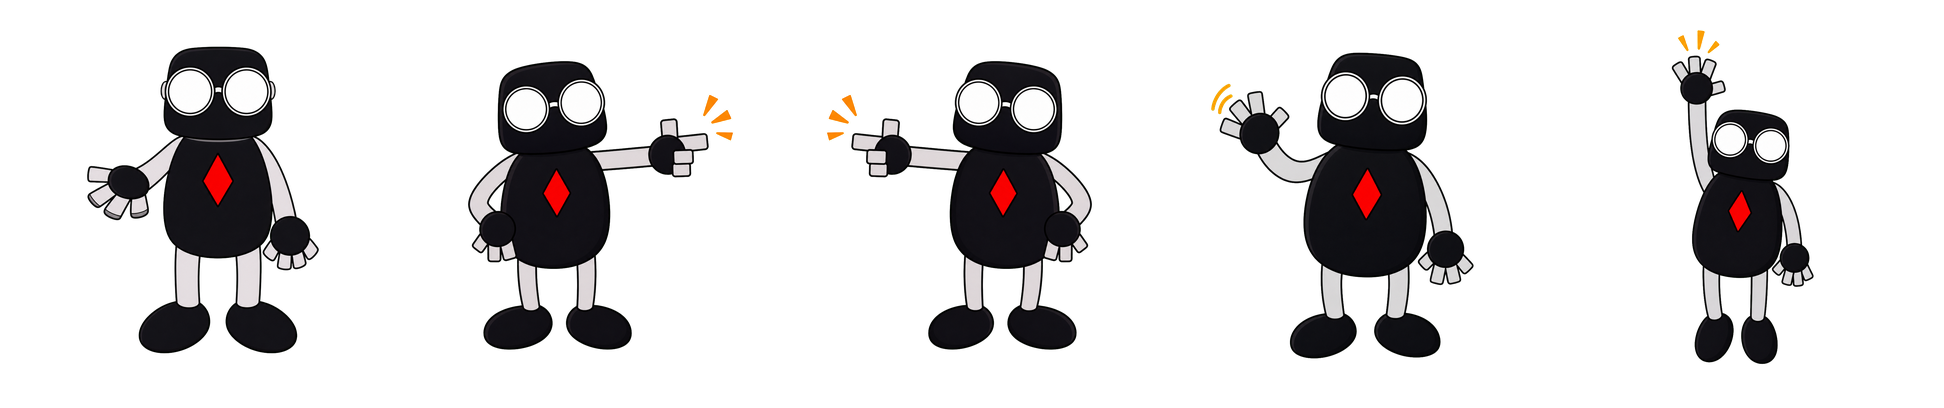
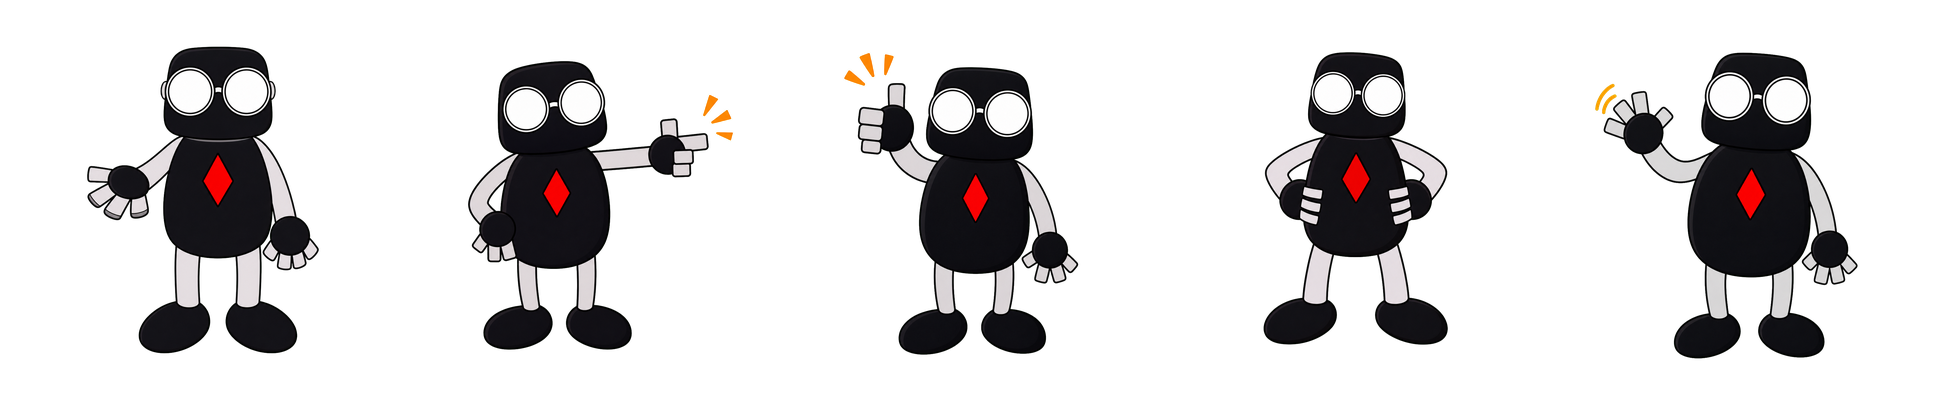
fix: allow thumbs-up and palm-closed illustration hands
Open-only reads as one pose. Add thumbs-up (palm closed, thumb tab up,
finger tabs tucked) and closed-at-rest. Still ban grips. When choosing
a look, run the same prompt on Grok and a GPT image model.

Changed region(s): [[0.4012, 0.1176, 0.5864, 0.8824], [0.6173, 0.1176, 0.7716, 0.8824], [0.8025, 0.0882, 0.9568, 0.8824]]

diff --git a/docs/skills/tkrobot-illustrations/references/tkrobot-sketch-mode.md b/docs/skills/tkrobot-illustrations/references/tkrobot-sketch-mode.md
@@ -17,9 +17,9 @@ order:
 1. `assets/character-lock-canonical.png` — anatomy and colours from the sticker
    masters (wave, hands-on-hips, OK, face).
 2. `assets/character-lock-sketch.png` — the same character in thin-line form.
-3. `assets/hand-lock-canonical.png` — open-palm and pointing poses only.
-   Also `docs/references/hand-size-anchor.png`.
-4. `assets/hand-lock-sketch.png` — the same two poses in thin-line form.
+3. `assets/hand-lock-canonical.png` — open, point, thumbs-up (palm-closed),
+   and closed-at-rest. Also `docs/references/hand-size-anchor.png`.
+4. `assets/hand-lock-sketch.png` — the same poses in thin-line form.
 
 Hands are the most common miss. If a call can only take a few references,
 keep the two **hand** sheets. Do **not** pass `assets/examples/*.png` as
@@ -45,16 +45,21 @@ These do not relax. If any one is missing, regenerate.
 - Oversized **black oval feet**.
 - No mouth, no eyebrows, no blush, no nose. Blank, deadpan.
 
-## Hands (open or point — never grip)
+## Hands (open, point, thumbs-up, closed — never grip)
 
-Grips are the failure mode. Visible hands may only do **two** poses:
+Grips are the failure mode. Visible hands may only do these poses:
 
-- **Open** — palm toward us, hanging at the side, waving, or flat against a
-  surface (pushing). All four tabs readable.
+- **Open** — palm toward us, waving, or flat against a surface. Four tabs
+  fanned.
 - **Point** — one grey finger tab out, grey thumb, two tabs along the palm.
+- **Thumbs-up** — **palm closed**. The black blob is a closed palm. Three
+  grey finger tabs tuck as short stubs along the blob's edge. One grey thumb
+  tab sticks straight up. Not an open fan with a thumb.
+- **Closed** — palm closed at rest: black blob hanging at the side or on a
+  hip, all grey tabs tucked as stubs. Not fanned. Not wrapped around a tool.
 
-Do not invent a third pose. No holding, wrapping, cranking, stamping,
-carrying, pinching, thumbs-up, OK, fists, or gear-like sunbursts of tabs.
+Do not invent a grip. No holding, wrapping, cranking, stamping, carrying,
+pinching, OK, or gear-like sunbursts of tabs.
 
 Locked construction, from `docs/references/hand-size-anchor.png`:
 
@@ -65,16 +70,17 @@ Locked construction, from `docs/references/hand-size-anchor.png`:
   **edge** of the black blob.
 - Count the grey tabs: **three fingers plus one thumb**. Four tabs total.
   Never four fingers plus a thumb (five tabs). Never five digits.
-- Tabs stay **large** — the locked v1 blocky scale. Not tiny nubs, not
-  sausages.
+- On **open** hands the tabs stay large (locked v1 scale). On **closed** and
+  **thumbs-up** the three finger tabs shorten into stubs against the blob;
+  the thumb tab stays a clear rectangle when it is up.
 - The grey arm tube meets the black palm. No extra ring.
 
-A hand that is fully hidden may vanish. A hand that is visible enough to
-count must be open or pointing, in this construction.
+A hand that is fully hidden may vanish. A visible hand must be one of the
+four poses above.
 
 The **body** does the work: stand inside the machine, lean on the gate, sit
-on the crate, push with an open palm, point at the flow. Objects may rest
-*on* an open palm. They must not be gripped.
+on the crate, push with an open palm, point at the flow, signal thumbs-up.
+Objects may rest *on* an open palm. They must not be gripped.
 
 Never: white Mickey gloves, all-black hands, stick-figure hooks, sausage
 fingers, fingernails, knuckle lines, a mitten with white bars, or any wrap
@@ -93,7 +99,8 @@ around a handle.
 T Krobot is a serious, deadpan worker doing an absurd-but-coherent job. It
 must perform the image's core action with its **body**, not a grip: stuck
 inside the machine, leaning on the gate, standing on the crate, pointing at
-the leak, pushing the box with an open palm.
+the leak, pushing with an open palm, signalling thumbs-up when the job is
+done.
 
 Multiple T Krobots are allowed (2–3 max) when the structure needs stations —
 each doing one job. Never a crowd, never a mascot lineup.

diff --git a/docs/skills/tkrobot-illustrations/references/prompt-template.md b/docs/skills/tkrobot-illustrations/references/prompt-template.md
@@ -42,10 +42,16 @@ MUST match the lock sheets:
   PALM BLOB with exactly FOUR light-grey rectangular tabs growing from its
   edge — three fingers in a row plus one thumb set apart. Tabs are LARGE flat
   rectangles with hard sides.
-  Allowed poses only: OPEN (palm toward us, hanging, waving, or flat against
-  a surface) or POINT (one tab out). Never grip, hold, wrap, crank, stamp,
-  carry, pinch, thumbs-up, OK, or fist. If a hand is curled around an object,
-  redraw the pose — have T Krobot push, lean, stand in, or point instead.
+  Allowed poses only:
+  OPEN — four tabs fanned, palm toward us, waving, or flat on a surface.
+  POINT — one grey finger tab out, grey thumb, two tabs along the palm.
+  THUMBS-UP — palm CLOSED: black blob as a closed palm, three grey finger
+  tabs tucked as short stubs on the blob, one grey thumb tab straight up.
+  CLOSED — palm closed at rest: black blob at the side or on a hip, all
+  grey tabs tucked as stubs, not fanned.
+  Never grip, hold, wrap, crank, stamp, carry, pinch, or OK. If a hand is
+  curled around an object, redraw — push, lean, stand in, point, or
+  thumbs-up instead.
 - Feet: oversized solid black ovals.
 - No mouth, no eyebrows, no blush. Deadpan.
 
@@ -68,7 +74,7 @@ Core idea:
 
 Composition:
 {where T Krobot is, the body action — not a grip — the main object, how
-information flows. Hands are open or pointing only.}
+information flows. Hands: open, point, thumbs-up (palm-closed), or closed.}
 
 Suggested elements:
 {element1} / {element2} / {element3}
@@ -88,7 +94,8 @@ at least 35% blank white. At most 5-8 short handwritten labels. No title in
 any corner. Do not write the structure type on the image. Not a formal
 diagram, slide, or dense explainer. Clear but not instructional, interesting
 but not childish, strange but clean. No extra type on props (no "STAMPED",
-no "WEEKLY BRIEFING" headings). Hands open or pointing only — no grips.
+no "WEEKLY BRIEFING" headings). Hands: open, point, thumbs-up (palm-closed),
+or closed at rest — no grips.
 ```
 
 ## Edit prompts
@@ -109,8 +116,9 @@ to the conceptual action — doing the strange work that explains the idea, not
 standing beside the diagram. Keep it clean, sparse, hand-drawn, not cute.
 Keep T Krobot on-model: grey tube limbs, trapezoid black head and body, empty
 round white glasses, red chest diamond, black palm blobs with four large
-grey rectangular tabs. Hands open or pointing only — no gripping. Not an
-all-black stick figure. Not cartoon gloves.
+grey rectangular tabs. Hands: open, point, thumbs-up (palm-closed), or
+closed at rest — no gripping. Not an all-black stick figure. Not cartoon
+gloves.
 ```
 
 Fix an off-model T Krobot (keep the scene):
@@ -131,8 +139,10 @@ Edit the provided image. Fix only T Krobot's hands to match the attached
 hand-lock sheets. Each visible hand: a round solid-black palm blob, with
 exactly three light-grey rectangular finger tabs plus one grey thumb tab
 growing from the blob's edge. Large flat tabs, hard sides. Each hand is
-OPEN or POINTING — if it is wrapped around a handle, uncurl it into an
-open palm or a point and move the object so it is not being held. Not
+OPEN, POINTING, THUMBS-UP (palm-closed), or CLOSED at rest. If it is
+wrapped around a handle, uncurl it and move the object so it is not
+being held. Thumbs-up must keep the palm closed (tucked stubs + thumb
+up), not an open fan. Not
 white gloves, not five digits, not sausages, not all-black fists, not
 striped mittens. Leave the head, body, scene, and labels untouched.
 ```

diff --git a/docs/skills/tkrobot-illustrations/SKILL.md b/docs/skills/tkrobot-illustrations/SKILL.md
@@ -14,9 +14,10 @@ product-sketch-feeling drawing where **T Krobot does the strange work that
 explains the idea**.
 
 T Krobot must participate in the core action — standing in the machine,
-leaning on the gate, pointing at the break, pushing with an open palm.
-Never standing beside the diagram as decoration. Hands stay **open or
-pointing**; do not grip or hold objects (those poses collapse).
+leaning on the gate, pointing at the break, pushing with an open palm,
+signalling thumbs-up. Never standing beside the diagram as decoration.
+Hands may be **open**, **pointing**, **thumbs-up (palm-closed)**, or
+**closed at rest**. Do not grip or hold objects (those poses collapse).
 
 This is distinct from the sticker pack (transparent chat stickers) and from
 banner composition (deterministic hero scenes). This skill produces editorial
@@ -26,9 +27,9 @@ body images for articles, tutorials, proposals, and course-page prose.
 
 Always read `references/tkrobot-sketch-mode.md` and look at the lock sheets
 before the first `image_gen` call. T Krobot is the sticker mascot with **light
-grey tube limbs** and **black palm + grey tab hands** that only **open or
-point**. Not an all-black Xiaohei stick figure, not cartoon gloves, not a
-grip.
+grey tube limbs** and **black palm + grey tab hands** that **open, point,
+thumbs-up (palm-closed), or close at rest**. Not an all-black Xiaohei stick
+figure, not cartoon gloves, not a grip.
 
 - `assets/character-lock-canonical.png` — anatomy and colours.
 - `assets/character-lock-sketch.png` — the same character in thin-line form.
@@ -64,6 +65,11 @@ If the user asks to generate, generate — one `image_gen` call per image, using
 hand lock sheets as `reference_image_paths` on that call. Never collage
 multiple ideas into one image. Invent a fresh metaphor from *this* text each
 time; never reuse a previous composition (see the no-recycling rule).
+
+When the user is choosing a look, or asks for an eval, run the **same**
+filled prompt on both Grok image gen and a GPT image model (one call per
+image per model). Keep the lock sheets attached. Do not mix the two
+outputs in one collage — deliver them as a pair.
 
 ### 4. Check and iterate
 

diff --git a/AGENTS.md b/AGENTS.md
@@ -34,7 +34,7 @@ Do **not** add unrelated brand assets, slide decks, checkerboard previews, or lo
 1. **Find existing stickers** → `stickers/` and `stickers/manifest.json` (filter by `tags` / `description`).
 2. **See the whole pack** → `stickers/contact-sheet.png`.
 3. **Match style before generating** → `docs/skills/tkrobot-sticker-generation/references/style-guide.md` and `docs/prompts/tkrobot-sticker-guidelines.md`.
-3b. **Article/tutorial body illustrations** (not stickers) → `docs/skills/tkrobot-illustrations/SKILL.md`. Attach the character and hand lock sheets on every generation call. Hands are a black palm blob with three grey rectangular tabs plus a thumb, **open or pointing only** — no gripping. Reject gloves, five digits, and all-black Xiaohei stick figures.
+3b. **Article/tutorial body illustrations** (not stickers) → `docs/skills/tkrobot-illustrations/SKILL.md`. Attach the character and hand lock sheets on every generation call. Hands are a black palm blob with three grey rectangular tabs plus a thumb: **open, point, thumbs-up (palm-closed), or closed at rest** — no gripping. When choosing a look, run the same prompt on Grok and a GPT image model. Reject gloves, five digits, and all-black Xiaohei stick figures.
 4. **Match hand size** → `docs/references/hand-size-anchor.png`.
 5. **Ignore by default** → almost everything under `archive/generated-iterations/` except when a manifest `source_path` or note points there.
 

diff --git a/docs/skills/tkrobot-illustrations/assets/README.md b/docs/skills/tkrobot-illustrations/assets/README.md
@@ -11,13 +11,14 @@
 Hands are the most common miss. Attach these as well, and prefer them if the
 image tool only accepts a few references.
 
-- `hand-lock-canonical.png` — open-palm and pointing only (palm-open,
-  point-left, point-right, greetings, handraise).
-- `hand-lock-sketch.png` — the same two poses in thin-line form.
+- `hand-lock-canonical.png` — open, point, thumbs-up (palm-closed), closed
+  at rest (palm-open, point-right, thumbsup, hands-on-hips, greetings).
+- `hand-lock-sketch.png` — the same poses in thin-line form.
 
 Round black palm blob. Exactly three light-grey rectangular finger tabs plus
-one grey thumb tab. **Open or point only** — no grips, holds, thumbs-up, or
-OK. If the tool only accepts a few references, keep these two sheets.
+one grey thumb tab. Allowed: **open**, **point**, **thumbs-up (palm-closed)**,
+**closed at rest**. No grips. If the tool only accepts a few references,
+keep these two sheets.
 
 ## Examples (page density only)
 

diff --git a/docs/skills/tkrobot-illustrations/references/style-dna.md b/docs/skills/tkrobot-illustrations/references/style-dna.md
@@ -14,9 +14,10 @@ a blank sheet — quickly, precisely, and slightly absurdly.
 T Krobot is the sticker mascot in thin-line form. Light grey tube limbs, black
 trapezoid head and body, empty round white glasses, red chest diamond, hands
 that are a black palm blob with three grey rectangular finger tabs plus a
-thumb, open or pointing only. See `tkrobot-sketch-mode.md` and the lock
-sheets. If the robot is an all-black stick figure, or the hands are gloves
-or wrapped around a handle, the page is wrong even when the layout is right.
+thumb: open, point, thumbs-up (palm-closed), or closed at rest. See
+`tkrobot-sketch-mode.md` and the lock sheets. If the robot is an all-black
+stick figure, or the hands are gloves or wrapped around a handle, the page
+is wrong even when the layout is right.
 
 ## Must
 

diff --git a/docs/skills/tkrobot-illustrations/references/composition-patterns.md b/docs/skills/tkrobot-illustrations/references/composition-patterns.md
@@ -26,8 +26,9 @@ Pick ONE structure per image.
    box, drawer, pipe, postbox, dial, scale, well, ladder, clothesline, gate,
    odd workstation. Pick 1–2, never a pile.
 3. Give T Krobot a **body** action: jammed in it, leaning on it, standing
-   on it, guarding it, pointing at the break, pushing with an open palm.
-   Do not solve the action with a grip. Hands stay open or pointing.
+   on it, guarding it, pointing at the break, pushing with an open palm,
+   signalling thumbs-up. Do not solve the action with a grip. Hands stay
+   open, pointing, thumbs-up (palm-closed), or closed at rest.
 
 Education-flavoured objects are welcome when the text calls for them
 (classroom conveyor, marking stamp, kit crate, block bin) but avoid literal

diff --git a/docs/skills/tkrobot-illustrations/references/qa-checklist.md b/docs/skills/tkrobot-illustrations/references/qa-checklist.md
@@ -19,8 +19,10 @@ Reject or edit when any of these appear.
   white/grey stripes; stick-figure hooks.
 - Hands gripping or holding: wrapped around a crank, stamp, handle, needle,
   magnifying glass, wheelbarrow, bucket, or any other object. Visible hands
-  may only be **open** or **pointing**. If you need a grip to tell the
-  story, change the pose instead of editing the fingers.
+  may be **open**, **pointing**, **thumbs-up (palm-closed)**, or **closed
+  at rest**. If you need a grip to tell the story, change the pose.
+- Thumbs-up drawn as an open fan with a thumb. The palm must be closed:
+  three grey stubs tucked on the blob, one thumb tab up.
 
 ## Page
 
